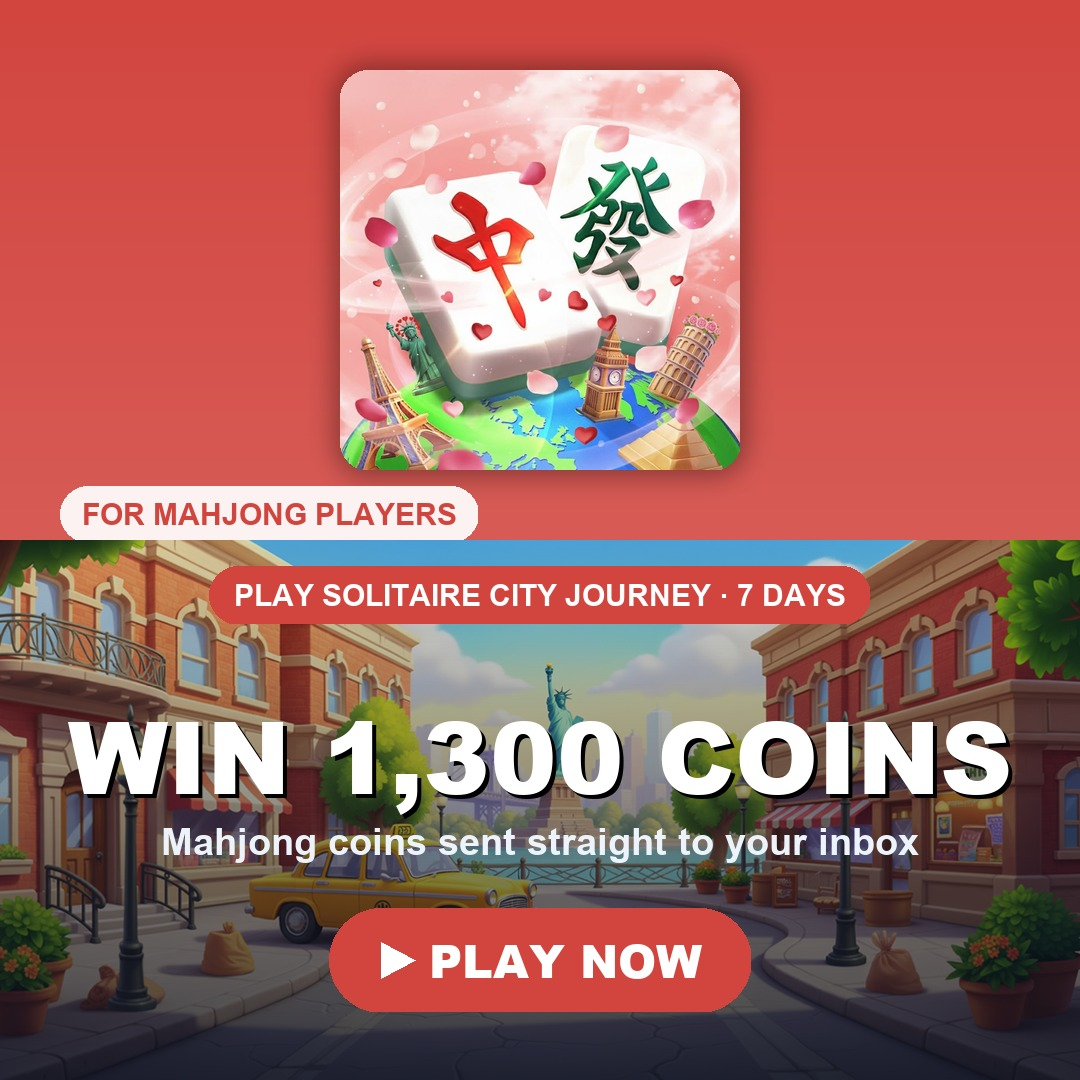
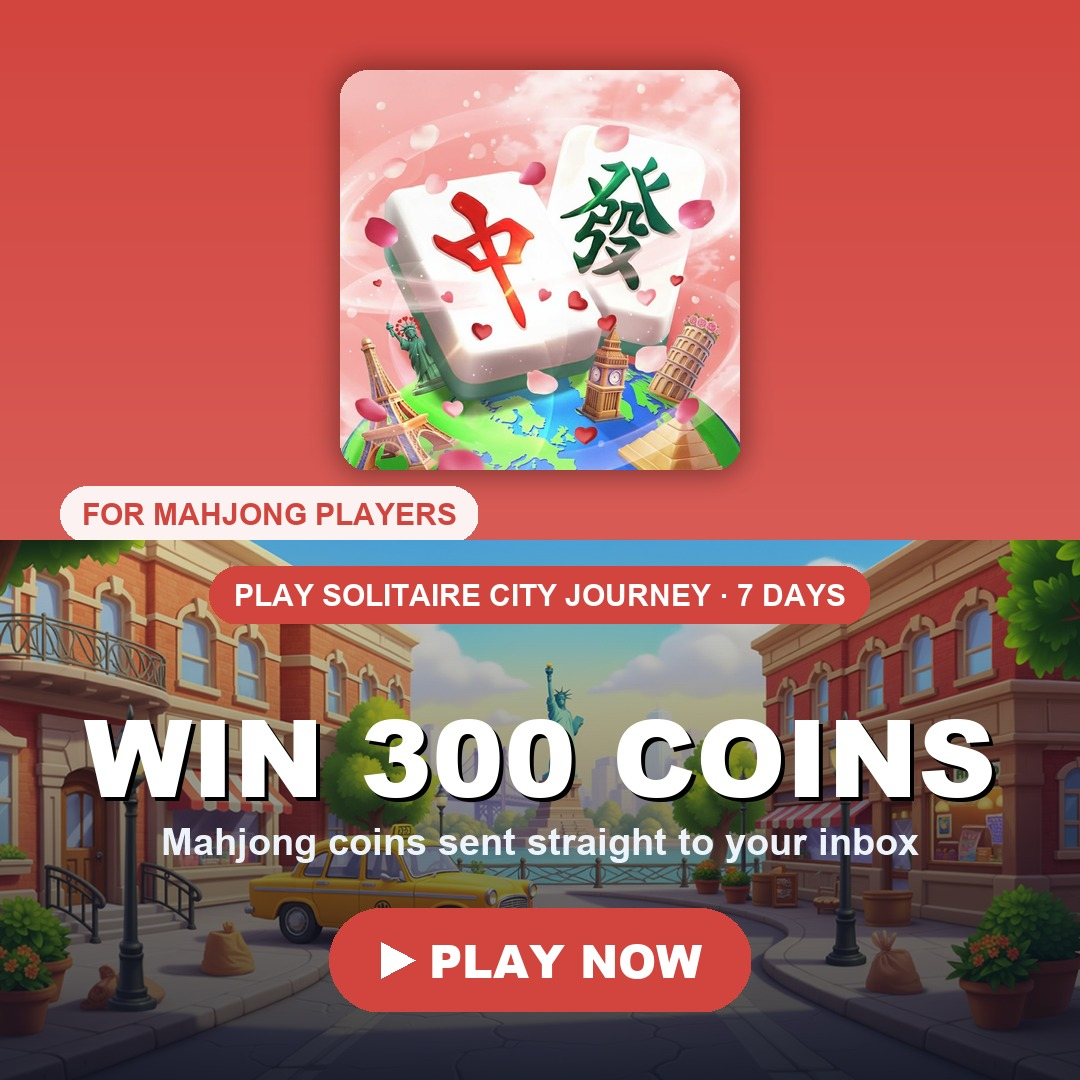
Mahjong reward confirmed = 300 Coins (Hailey, ~10x RV-watch reward)

Changed region(s): [[0.0611, 0.6417, 0.9472, 0.7639]]

diff --git a/22_cross_promo_posting_campaign.html b/22_cross_promo_posting_campaign.html
@@ -189,10 +189,10 @@
 <p style="font-size:12.5px;color:var(--sub);margin-top:6px"><b>R&R 요약</b> — 🟢 <b>PH(Andre)</b> = 포스트 게시 + 당첨자 발표 + 소재 제작. 🔵 <b>Game Team</b> = 아트(UID)·클라/서버·보상 산정(@hailey)·검증/추첨/지급(서버) 등 <b>그 외 전부</b>.</p>
 
 <h2 data-anchor="reward"><span class="n">6</span>보상 골드 — 파일럿(마종)만 · 확대분은 추후 진행 시 고민</h2>
-<p>방침(보스): 솔리테어 퀄리티 우선, 소스게임 밸런스 무관 → 후하게(가상재화라 우리 실비용 0). <b>파일럿 = 마종만</b>. ⚠ <b>마종 지급 코인 양은 Hailey가 지정</b> — 확정 후 반영. <b>확대 후보(코인매치·코지·더퍼즐 등) 보상은 확대 진행 시 고민</b>(현재 미확정).</p>
+<p>방침(보스): 솔리테어 퀄리티 우선, 소스게임 밸런스 무관 → 후하게(가상재화라 우리 실비용 0). <b>파일럿 = 마종만</b>. ✅ <b>마종 = 300 Coins 확정</b>(Hailey · RV 10회 시청 보상 수준). <b>확대 후보(코인매치·코지·더퍼즐 등) 보상은 확대 진행 시 고민</b>(현재 미확정).</p>
 <table>
   <tr><th>진행</th><th>게임</th><th>화폐</th><th class="num">지급 보상</th><th>비고</th></tr>
-  <tr><td class="good">★ 파일럿</td><td><b>마종</b></td><td>Coins</td><td class="num warn">Hailey 지정 ⏳</td><td>~$5 기준(잠정 1,300 Coins)</td></tr>
+  <tr><td class="good">★ 파일럿</td><td><b>마종</b></td><td>Coins</td><td class="num good">300 Coins</td><td>확정(Hailey) · RV 10회 시청 보상 수준</td></tr>
   <tr><td class="warn">확대 후보</td><td>코인매치</td><td>Coins</td><td class="num warn">추후 고민 ⏳</td><td>확대 진행 시 결정</td></tr>
   <tr><td class="warn">확대 후보</td><td>코지</td><td>Coins</td><td class="num warn">추후 고민 ⏳</td><td>확대 진행 시 결정</td></tr>
   <tr><td class="warn">2차 보류</td><td>더퍼즐</td><td>Coins</td><td class="num warn">추후 고민 ⏳</td><td>확대 진행 시 결정</td></tr>
@@ -205,18 +205,18 @@
 <p style="font-size:12px;color:var(--sub)">※ 포맷은 업계 표준 반영 — Gossip Harbor·Seaside Escape·Travel Town 공통: <b>게임 ID 댓글 응모 → 인박스 지급 · 공유/좋아요 보너스 응모권 · 스캠 경고문</b>. (단 그들은 플레이 인증 없이 ID만 받음 — 우리는 타 게임 리텐션이 목적이라 7일 출석 인증을 추가.)</p>
 
 <p style="font-size:14px;color:var(--good);font-weight:800;margin-top:4px">★ 파일럿 1순위 — Mahjong (마종) 단독 먼저</p>
-<h3>★ Mahjong (마종) — 1,300 Coins · <span style="color:var(--good)">파일럿</span></h3>
+<h3>★ Mahjong (마종) — 300 Coins · <span style="color:var(--good)">파일럿</span></h3>
 <img class="postsample" src="post_samples/post_mahjong.jpg" alt="Mahjong 퀘스트 포스트 이미지 샘플">
 <div class="scap">▲ 크로스프로모 샘플 (소스게임 + 솔리테어 아트)</div>
 <div class="copy"><span class="lbl">QUEST POST</span>🀄 Mahjong Giveaway 🀄
 🎉 Love tile-matching? Now try card-matching! 🃏
-🔍 Play Solitaire City Journey for 7 days, then drop your Mahjong ID in the comments for a chance to win 🎁 1,300 Coins 🎁 — sent straight to your Mahjong inbox!
+🔍 Play Solitaire City Journey for 7 days, then drop your Mahjong ID in the comments for a chance to win 🎁 300 Coins 🎁 — sent straight to your Mahjong inbox!
 ▶ Play now: [PLAY_LINK]
 (How to enter 👇)</div>
 <div class="copy"><span class="lbl">PINNED ENTRY COMMENT</span>📋 How to enter:
 1⃣ Play Solitaire City Journey for 7 days (grab your daily gift each day!)
 2⃣ Reply here with your Mahjong ID (find it in Settings ⚙) + a screenshot of your 7-day check-in
-3⃣ We'll draw winners & send 1,300 Coins to your Mahjong inbox 💛
+3⃣ We'll draw winners & send 300 Coins to your Mahjong inbox 💛
 🎁 40 winners · entry open for 2 weeks — winners drawn right after! 🎲
 BONUS: Share 🔄 and like 👍 this post for more chances to win!
 ❗ Please DON'T BELIEVE any of those scam accounts in the comments that direct you to external links! We will NEVER ask for any of your private information other than your Mahjong ID.</div>
@@ -276,7 +276,7 @@ BONUS: Share 🔄 and like 👍 this post for more chances to win!
   <tr><td>게임 선정(스코프)</td><td><span class="pill p-do">확정 — <b>1차 파일럿 = 마종 단독</b></span> · 확대(코인매치·코지·더퍼즐)는 <b>이벤트 시작 후 ~D5 유입량 보고 결정</b></td></tr>
   <tr><td><b>아트 — 7일 출석 화면 UID 노출</b></td><td><span class="pill p-wait">작업 대기 · 파일럿 선결</span></td></tr>
   <tr><td><b>클라+서버 — 마종 인박스 지급 경로</b></td><td><span class="pill p-wait">작업 대기 — 주 공수 1일+ · 파일럿 선결</span></td></tr>
-  <tr><td><b>마종 지급 코인 양</b></td><td><span class="pill p-wait">Hailey 지정 필요</span> (현 1,300 잠정 · 확대 후보는 확대 진행 시 고민)</td></tr>
+  <tr><td><b>마종 지급 코인 양</b></td><td><span class="pill p-do">확정 — 300 Coins (Hailey · RV 10회 보상 수준)</span> · 확대 후보는 확대 진행 시 고민</td></tr>
   <tr><td>지급 방식</td><td><span class="pill p-do">추첨 → 소스게임 인박스 (1-UID, Gossip Harbor 방식)</span></td></tr>
   <tr><td>당첨자 수(N) · 추첨 주기</td><td><span class="pill p-do">파일럿 — 마종 40명 · 응모 마감 후 1회 일괄</span> (확대 시 도달 비례)</td></tr>
   <tr><td>콜드스타트 정확한 D0</td><td><span class="pill p-wait">QA 완료일 확인</span></td></tr>
@@ -411,10 +411,10 @@ BONUS: Share 🔄 and like 👍 this post for more chances to win!
 <p style="font-size:12.5px;color:var(--sub);margin-top:6px"><b>R&R summary</b> — 🟢 <b>PH(Andre)</b> = post publishing + winner announcement + asset production. 🔵 <b>Game Team</b> = art(UID)·client/server·reward sizing(@hailey)·verify/draw/payout(server) etc., everything else.</p>
 
 <h2 data-anchor="reward"><span class="n">6</span>Reward Gold — Mahjong pilot only · expansion TBD later</h2>
-<p>Policy (boss): Solitaire quality first, source-game balance irrelevant → be generous (virtual currency, zero real cost to us). <b>Pilot = Mahjong only.</b> ⚠ <b>Mahjong payout coin amount set by Hailey</b> — reflect once confirmed. <b>Expansion candidates (Coin Match·Cozy·The Puzzle etc.) reward TBD at expansion time</b> (currently undecided).</p>
+<p>Policy (boss): Solitaire quality first, source-game balance irrelevant → be generous (virtual currency, zero real cost to us). <b>Pilot = Mahjong only.</b> ✅ <b>Mahjong = 300 Coins (confirmed by Hailey · ≈ 10× RV-watch reward)</b>. <b>Expansion candidates (Coin Match·Cozy·The Puzzle etc.) reward TBD at expansion time</b> (currently undecided).</p>
 <table>
   <tr><th>Status</th><th>Game</th><th>Currency</th><th class="num">Payout reward</th><th>Note</th></tr>
-  <tr><td class="good">★ Pilot</td><td><b>Mahjong</b></td><td>Coins</td><td class="num warn">Hailey to set ⏳</td><td>~$5 basis (tentative 1,300 Coins)</td></tr>
+  <tr><td class="good">★ Pilot</td><td><b>Mahjong</b></td><td>Coins</td><td class="num good">300 Coins</td><td>Confirmed (Hailey) · ≈ 10× RV-watch reward</td></tr>
   <tr><td class="warn">Expansion</td><td>Coin Match</td><td>Coins</td><td class="num warn">TBD later ⏳</td><td>decided at expansion</td></tr>
   <tr><td class="warn">Expansion</td><td>Cozy</td><td>Coins</td><td class="num warn">TBD later ⏳</td><td>decided at expansion</td></tr>
   <tr><td class="warn">Phase 2 hold</td><td>The Puzzle</td><td>Coins</td><td class="num warn">TBD later ⏳</td><td>decided at expansion</td></tr>
@@ -427,18 +427,18 @@ BONUS: Share 🔄 and like 👍 this post for more chances to win!
 <p style="font-size:12px;color:var(--sub)">※ Format follows industry standard — Gossip Harbor·Seaside Escape·Travel Town common: <b>game-ID comment entry → inbox payout · share/like bonus entries · scam warning</b>. (They take ID only without play verification — we add 7-day check-in since cross-game retention is the goal.)</p>
 
 <p style="font-size:14px;color:var(--good);font-weight:800;margin-top:4px">★ Pilot #1 — Mahjong only first</p>
-<h3>★ Mahjong — 1,300 Coins · <span style="color:var(--good)">Pilot</span></h3>
+<h3>★ Mahjong — 300 Coins · <span style="color:var(--good)">Pilot</span></h3>
 <img class="postsample" src="post_samples/post_mahjong.jpg" alt="Mahjong quest post sample">
 <div class="scap">▲ Cross-promo sample (source game + Solitaire art)</div>
 <div class="copy"><span class="lbl">QUEST POST</span>🀄 Mahjong Giveaway 🀄
 🎉 Love tile-matching? Now try card-matching! 🃏
-🔍 Play Solitaire City Journey for 7 days, then drop your Mahjong ID in the comments for a chance to win 🎁 1,300 Coins 🎁 — sent straight to your Mahjong inbox!
+🔍 Play Solitaire City Journey for 7 days, then drop your Mahjong ID in the comments for a chance to win 🎁 300 Coins 🎁 — sent straight to your Mahjong inbox!
 ▶ Play now: [PLAY_LINK]
 (How to enter 👇)</div>
 <div class="copy"><span class="lbl">PINNED ENTRY COMMENT</span>📋 How to enter:
 1⃣ Play Solitaire City Journey for 7 days (grab your daily gift each day!)
 2⃣ Reply here with your Mahjong ID (find it in Settings ⚙) + a screenshot of your 7-day check-in
-3⃣ We'll draw winners & send 1,300 Coins to your Mahjong inbox 💛
+3⃣ We'll draw winners & send 300 Coins to your Mahjong inbox 💛
 🎁 40 winners · entry open for 2 weeks — winners drawn right after! 🎲
 BONUS: Share 🔄 and like 👍 this post for more chances to win!
 ❗ Please DON'T BELIEVE any of those scam accounts in the comments that direct you to external links! We will NEVER ask for any of your private information other than your Mahjong ID.</div>
@@ -498,7 +498,7 @@ BONUS: Share 🔄 and like 👍 this post for more chances to win!
   <tr><td>Game selection (scope)</td><td><span class="pill p-do">Confirmed — <b>Phase 1 pilot = Mahjong only</b></span> · expansion (Coin Match·Cozy·The Puzzle) <b>decided on ~D5 inflow volume</b></td></tr>
   <tr><td><b>Art — UID on 7-day check-in screen</b></td><td><span class="pill p-wait">Pending · pilot prerequisite</span></td></tr>
   <tr><td><b>Client+Server — Mahjong inbox payout path</b></td><td><span class="pill p-wait">Pending — main effort 1+ day · pilot prerequisite</span></td></tr>
-  <tr><td><b>Mahjong payout coin amount</b></td><td><span class="pill p-wait">Hailey to set</span> (1,300 tentative · expansion TBD later)</td></tr>
+  <tr><td><b>Mahjong payout coin amount</b></td><td><span class="pill p-do">Confirmed — 300 Coins (Hailey · ≈10× RV reward)</span> · expansion TBD later</td></tr>
   <tr><td>Payout method</td><td><span class="pill p-do">Draw → source-game inbox (1-UID, Gossip Harbor style)</span></td></tr>
   <tr><td>Winner count(N) · draw cadence</td><td><span class="pill p-do">Pilot — 40 Mahjong winners · one batch after entry closes</span> (expansion: proportional to reach)</td></tr>
   <tr><td>Cold-start exact D0</td><td><span class="pill p-wait">Confirm at QA completion</span></td></tr>
